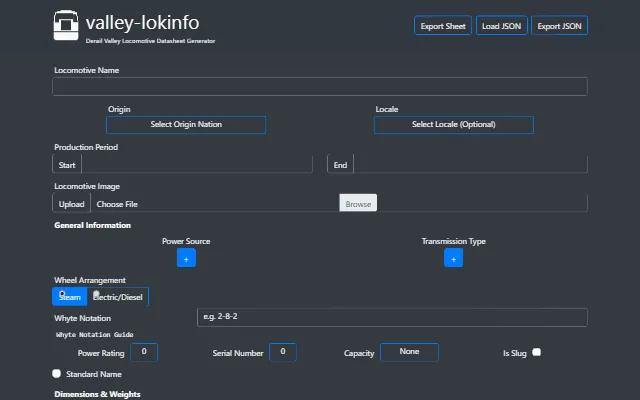
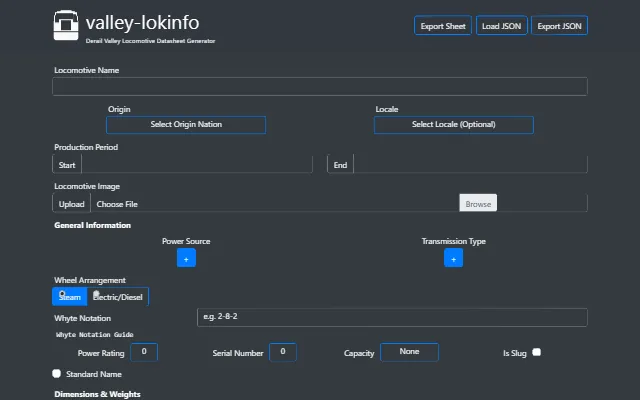
Update website data from Silex
Update website data from Silex

Update website data from Silex

Update website data from Silex

Update website data from Silex

Update website assets from Silex

fix boiler pressure unit

Changed region(s): [[0.7188, 0.48, 0.7812, 0.54], [0.5312, 0.48, 0.5938, 0.54]]

diff --git a/docs/sheet-template/index.html b/docs/sheet-template/index.html
@@ -4,7 +4,7 @@
 <meta charset="UTF-8">
 <meta name="viewport" content="width=device-width, initial-scale=1.0">
 <meta name="generator" content="Silex v3.10.0">
-<link rel="stylesheet" href="./css/sheet-template-240a4d25226c4a10c8e6390c3453e698d139b8ff8b76eff8d2a21a3605e7f8c6.css" />
+<link rel="stylesheet" href="./css/sheet-template-e111f3cbde29829495c5222d92eeb3d2d3f61f0128a37bf53348497b80f89140.css" />
 <link rel="stylesheet" href="https://cdn.jsdelivr.net/npm/bootstrap@4.6.2/dist/css/bootstrap.min.css" integrity="sha384-xOolHFLEh07PJGoPkLv1IbcEPTNtaed2xpHsD9ESMhqIYd0nLMwNLD69Npy4HI+N" crossorigin="anonymous">
 <link rel="stylesheet" href="https://cdnjs.cloudflare.com/ajax/libs/font-awesome/7.3.1/css/all.min.css" crossorigin="anonymous" referrerpolicy="no-referrer" />
 <script src="https://code.jquery.com/jquery-3.5.1.min.js"></script>
@@ -28,5 +28,5 @@
 <link rel="icon" href="https://cdn.jsdelivr.net/gh/CruzerBlade9369/valley-lokinfo@main/assets/icon.png" />
 <meta name="description" property="description" content="Derail Valley Locomotive Datasheet Generator"/>
 </head>
[2 lines of base64/hex data omitted]
 </html>

diff --git a/public/templates/silex-sheet-template.html b/public/templates/silex-sheet-template.html
@@ -4,7 +4,7 @@
 <meta charset="UTF-8">
 <meta name="viewport" content="width=device-width, initial-scale=1.0">
 <meta name="generator" content="Silex v3.10.0">
-<link rel="stylesheet" href="/css/sheet-template-240a4d25226c4a10c8e6390c3453e698d139b8ff8b76eff8d2a21a3605e7f8c6.css" />
+<link rel="stylesheet" href="/css/sheet-template-e111f3cbde29829495c5222d92eeb3d2d3f61f0128a37bf53348497b80f89140.css" />
 <link rel="stylesheet" href="https://cdn.jsdelivr.net/npm/bootstrap@4.6.2/dist/css/bootstrap.min.css" integrity="sha384-xOolHFLEh07PJGoPkLv1IbcEPTNtaed2xpHsD9ESMhqIYd0nLMwNLD69Npy4HI+N" crossorigin="anonymous">
 <link rel="stylesheet" href="https://cdnjs.cloudflare.com/ajax/libs/font-awesome/7.3.1/css/all.min.css" crossorigin="anonymous" referrerpolicy="no-referrer" />
 <script src="https://code.jquery.com/jquery-3.5.1.min.js"></script>
@@ -28,5 +28,5 @@
 <link rel="icon" href="https://cdn.jsdelivr.net/gh/CruzerBlade9369/valley-lokinfo@main/assets/icon.png" />
 <meta name="description" property="description" content="Derail Valley Locomotive Datasheet Generator"/>
 </head>
[2 lines of base64/hex data omitted]
 </html>

diff --git a/docs/css/sheet-template-e111f3cbde29829495c5222d92eeb3d2d3f61f0128a37bf53348497b80f89140.css b/docs/css/sheet-template-e111f3cbde29829495c5222d92eeb3d2d3f61f0128a37bf53348497b80f89140.css
@@ -1,0 +1,1 @@
+* { box-sizing: border-box; } body {margin: 0;}.silex-default-container{min-height:100px;}:root{--accent:3498db;--blu:#007ACC;--darkaccent:#1E1E1E;--lightaccent:#3E3E42;--main:#252526;--maincolor:#252526;--text:#ededed;--verylightaccent:#3E3E42;}.upload-placeholder p{color:#666;font-size:14px;}.upload-placeholder button, .preview-controls button{background:#eee;border:1px solid #888;cursor:pointer;padding:8px 16px;}.upload-placeholder small{color:#777;display:block;margin-top:12px;}.upload-preview img{background:#eee;display:block;max-height:420px;object-fit:contain;width:100%;}[hidden]{display:none !important;}.text-white.p-1.mr-3{width:35%;}#iqlwb-2{font-size:3vw;}#icd6g-2{font-size:1vw;}#is4dop-2{font-size:1.5rem;}#i68vg-2{display:none;}#itdnau{font-size:1.5rem;}.justify-content-between{height:fit-content;}#ii294x{font-size:1.5rem;}.border-right{width:40%;}#originLocale{font-size:1.5rem;}#prodPeriod{font-size:1.5rem;}#locoImage{height:auto;width:62%;}#izvjug{width:5vw;}

diff --git a/public/static/css/sheet-template-e111f3cbde29829495c5222d92eeb3d2d3f61f0128a37bf53348497b80f89140.css b/public/static/css/sheet-template-e111f3cbde29829495c5222d92eeb3d2d3f61f0128a37bf53348497b80f89140.css
@@ -1,0 +1,1 @@
+* { box-sizing: border-box; } body {margin: 0;}.silex-default-container{min-height:100px;}:root{--accent:3498db;--blu:#007ACC;--darkaccent:#1E1E1E;--lightaccent:#3E3E42;--main:#252526;--maincolor:#252526;--text:#ededed;--verylightaccent:#3E3E42;}.upload-placeholder p{color:#666;font-size:14px;}.upload-placeholder button, .preview-controls button{background:#eee;border:1px solid #888;cursor:pointer;padding:8px 16px;}.upload-placeholder small{color:#777;display:block;margin-top:12px;}.upload-preview img{background:#eee;display:block;max-height:420px;object-fit:contain;width:100%;}[hidden]{display:none !important;}.text-white.p-1.mr-3{width:35%;}#iqlwb-2{font-size:3vw;}#icd6g-2{font-size:1vw;}#is4dop-2{font-size:1.5rem;}#i68vg-2{display:none;}#itdnau{font-size:1.5rem;}.justify-content-between{height:fit-content;}#ii294x{font-size:1.5rem;}.border-right{width:40%;}#originLocale{font-size:1.5rem;}#prodPeriod{font-size:1.5rem;}#locoImage{height:auto;width:62%;}#izvjug{width:5vw;}
